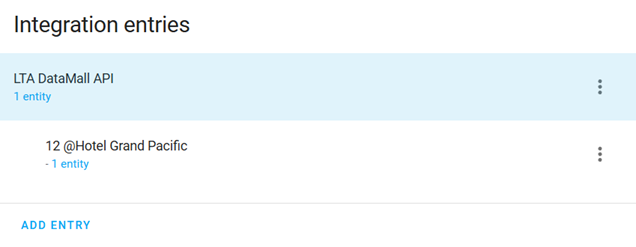
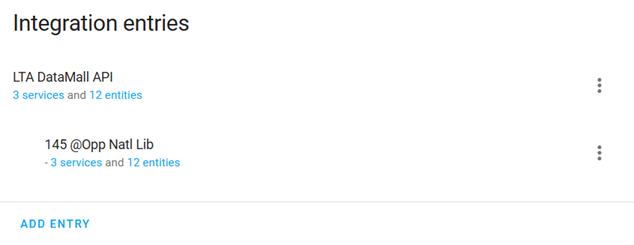
updated instructions

diff --git a/custom_components/sg_bus_arrivals/api.py b/custom_components/sg_bus_arrivals/api.py
@@ -1,6 +1,5 @@
 """Handle API calls to LTA DataMall for querying bus arrivals."""
 
-import asyncio
 from datetime import UTC, datetime
 import logging
 from typing import Any

diff --git a/README.md b/README.md
@@ -35,34 +35,54 @@ Add the integration:
 - **Scan interval**: The frequency (seconds) to fetch data from the LTA DataMall API. A minimum limit of 20 seconds has been imposed to avoid rate-limiting issues.
 
 Upon successful configuration, you should see a single **LTA DataMall API** entry.
-Continue with the [Add new bus arrival sensor](#add-new-bus-arrival-sensor) section below to add sensors for bus arrival times.<br/>
+Continue with the [Add new bus service](#add-new-bus-arrival-sensor) section below to add sensors for bus arrival times.<br/>
 ![](images/config-entry.png)
 
-## Add new bus arrival sensor
+## Add new bus service
 
 Go to **Settings** > **Devices & services** > **SG Bus Arrivals**.
 
-Click on the "..." icon on the right of the **LTA DataMall API** entry and select **Add new bus arrival sensor**.<br/>
-![](images/add-new-bus-arrival-sensor.png)
+Click on the "..." icon on the right of the **LTA DataMall API** entry and select **Add new bus service**.<br/>
+![](images/add-new-bus-service.png)
 
 ### Required manual input
 
-![](images/add-new-bus-arrival-sensor-fields.png)
+You will first be prompted to specify the bus stop code:<br/>
+![](images/bus-stop-code.png)
 
-- **Label**: A user-friendly display name for the sensor. It is strongly recommended to include the bus service number and a short description of the bus stop for easy reference.
 - **Bus stop code**: The unique 5-digit bus stop code. Use the [LTA Transport Tools (Bus Services)](https://www.lta.gov.sg/content/ltagov/en/map/bus.html) to search for your bus stops and bus services.
+
+The integration will then fetch all the available bus services at that bus stop. Next, you will need to specify the bus service number:<br/>
+![](images/service-no.png)
 - **Bus service number**: The bus service number at the bus stop.
 
-After adding a sensor, you should be able to see a new subentry.
-The following example subentry was created using label `12 @Hotel Grand Pacific`, bus stop code `01012` and service number `12`.<br/>
+After adding a bus service, you should be able to see a new subentry:<br/>
 ![](images/subentry.png)
 
-### Sensor details
+### Subentry details
 
-To view the sensor details, click on the entity under the subentry.
-![](images/sensor.png)
+Each subentry contains 3 services which corresponds to the 3 bus arrivals:
+![](images/services.png)
 
-🎉 Congratulations! You have successfully added a new sensor to track bus arrivals. You can add more sensors if you like or read on for more details about the integration.
+Selecting any of the service will display the details of the bus arrivals exposed as sensors:
+![](images/sensors.png)
+
+🎉 Congratulations! You have successfully added a new service to track bus arrivals. You can add more bus services if you like or read on for more details about the integration.
+
+## Actions
+
+These are service actions which you can use in automations.
+
+### Refresh bus arrivals
+
+This action initiates a fetch using the LTA DataMall API to update all of the integration's sensors.
+
+YAML:
+```
+action: sg_bus_arrivals.refresh_bus_arrivals
+metadata: {}
+data: {}
+```
 
 ## Use cases
 
@@ -73,6 +93,13 @@ This section discusses some examples on how you can use this integration.
 Add the sensor to a dashboard to quickly view bus arrival times.
 The folowing is an example from the default dashboard:<br/>
 ![](images/dashboard.png)
+
+### Home Assistant Companion App (Android) Widget
+
+Add a widget to your home screen to quickly peek at the next bus arrival:
+1. Add an Home Assistant entity widget to your home screen.
+2. Specify the estimated arrival sensor entity ID. e.g. `sensor.sgbusarrivals_01029_145_next_bus_1_estimated_arrival`
+3. Tap on the widget to refresh the sensor display value.
 
 ### Automation: Send bus arrival notification when leaving home
 
@@ -106,19 +133,16 @@ data:
 
 ### Sensors
 
-The bus arrival sensor is created via the [Add new bus arrival sensor](#add-new-bus-arrival-sensor) setup. The sensor has the following properties:
+The bus arrival sensor is created via the [Add new bus service](#add-new-bus-service) setup. The sensor has the following properties:
 - The sensor shows the **estimated** (as per LTA DataMall API) next bus arrival in minutes.
 - The sensor has a precision of up to 1 minute (as per LTA DataMall API).
 - If the sensor shows "0", it means the bus is arriving soon, is already at the bus stop or has just left the bus stop.
 - If there are no more bus arrivals (e.g. last bus already departed), the sensor will show "unknown". If there was an error fetching the arrival time, the sensor will show "unavailable".
-- The second and third arrival times are also available as additional attributes in the sensor (`second_arrival_minutes` and `third_arrival_minutes` respectively).
 
 ## Sensor naming and IDs
 
-Sensor name is based on the **Label** specified during the [Add new bus arrival sensor](#add-new-bus-arrival-sensor) setup.
-
-Sensor entity ID has the following naming convention: `sensor.sgbusarrivals_<bus_stop_code>_<service_no>`<br/>
-For example, for bus service number 145 at bus stop code 01029, the sensor entity id will be: `sensor.sgbusarrivals_01029_145`
+Sensor entity IDs have the following naming convention: `sensor.sgbusarrivals_<bus_stop_code>_<service_no>_next_bus_<arrival>_<sensor>`<br/>
+For example, for the 1st bus arrival for bus service number 145 at bus stop code 01029, the sensor entity id will be: `sensor.sgbusarrivals_01029_145_next_bus_1_estimated_arrival`
 
 ## Reconfiguration
 
@@ -127,4 +151,4 @@ This integration supports reconfiguration, allowing you to make changes to the *
 ## Removing the integration
 
 Deleting the **LTA DataMall API** configuration entry will remove the integration.
-ALL related sensors will also be deleted.
+ALL related services and sensors will also be deleted.
